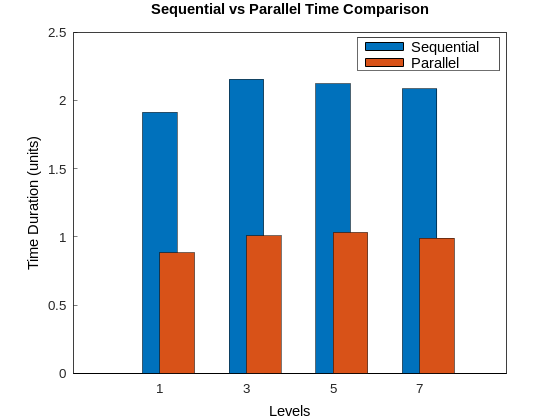
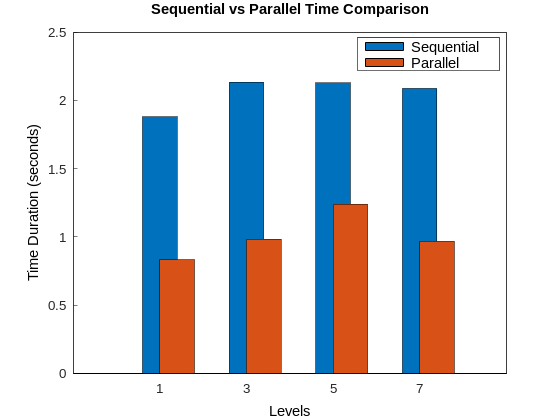
remove redundant timing output in main function and update comments for clarity

diff --git a/src/main.cpp b/src/main.cpp
@@ -3,14 +3,11 @@
 #include <sstream>
 #include <unordered_map>
 #include <vector>
-#include <chrono> // For timing
-#include <thread> // For hardware_concurrency
+#include <chrono>
+#include <thread>
 #include "./PoissonSolver.hpp"
 #include "./PoissonSolverParallel.hpp"
 #include "./plot.hpp"
-
-
-
 
 void save_errors(const std::string &filename, const std::vector<double> &errors) {
     std::ofstream file(filename);
@@ -149,11 +146,7 @@ int main() {
     double error = parallelSolver.determine_error();
     std::cout << "True error L2-norm of (sol - approx): " << error << "\n";
 
-    // Print the time taken for each level 
-    std::cout << "Level,Sequential Time,Parallel Time\n";
-    for (size_t i = 0; i < levels.size(); ++i) {
-        std::cout << "Level " << levels[i] << "," << seq_duration[i] << "," << par_duration[i] << "\n";
-    }
+    // Plot the time taken for each level 
     plot_times(seq_duration, par_duration, levels);
 
     // Plot all results
